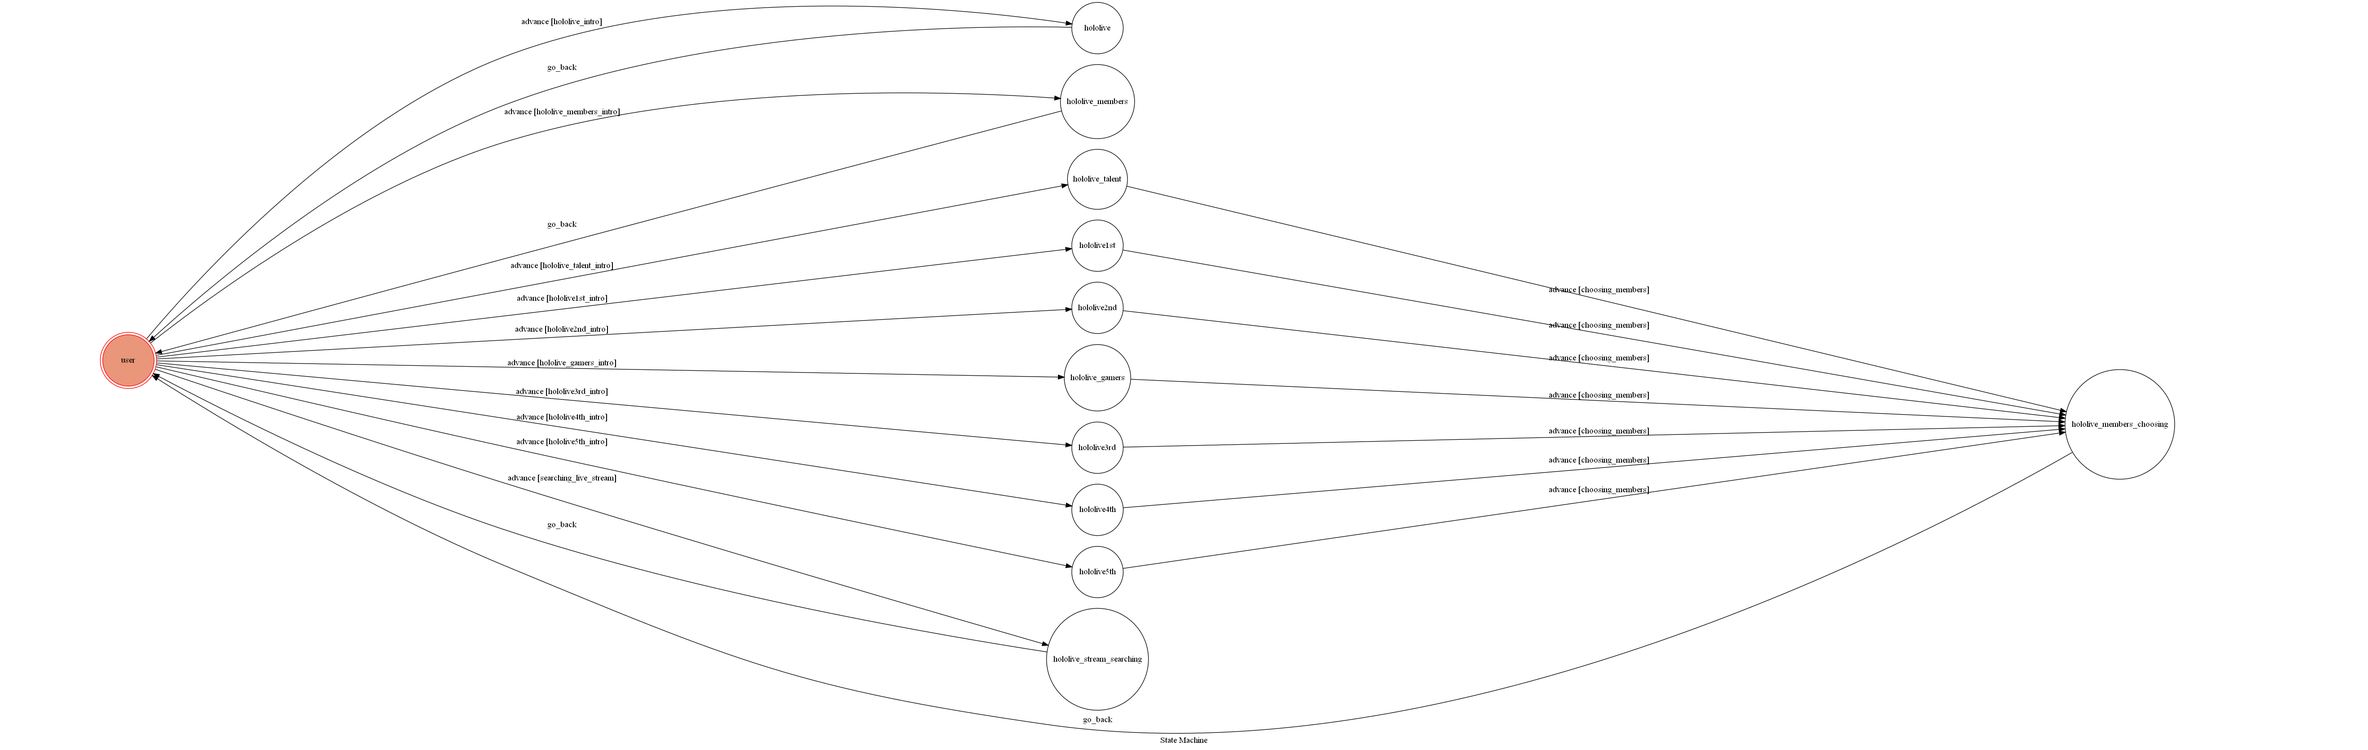
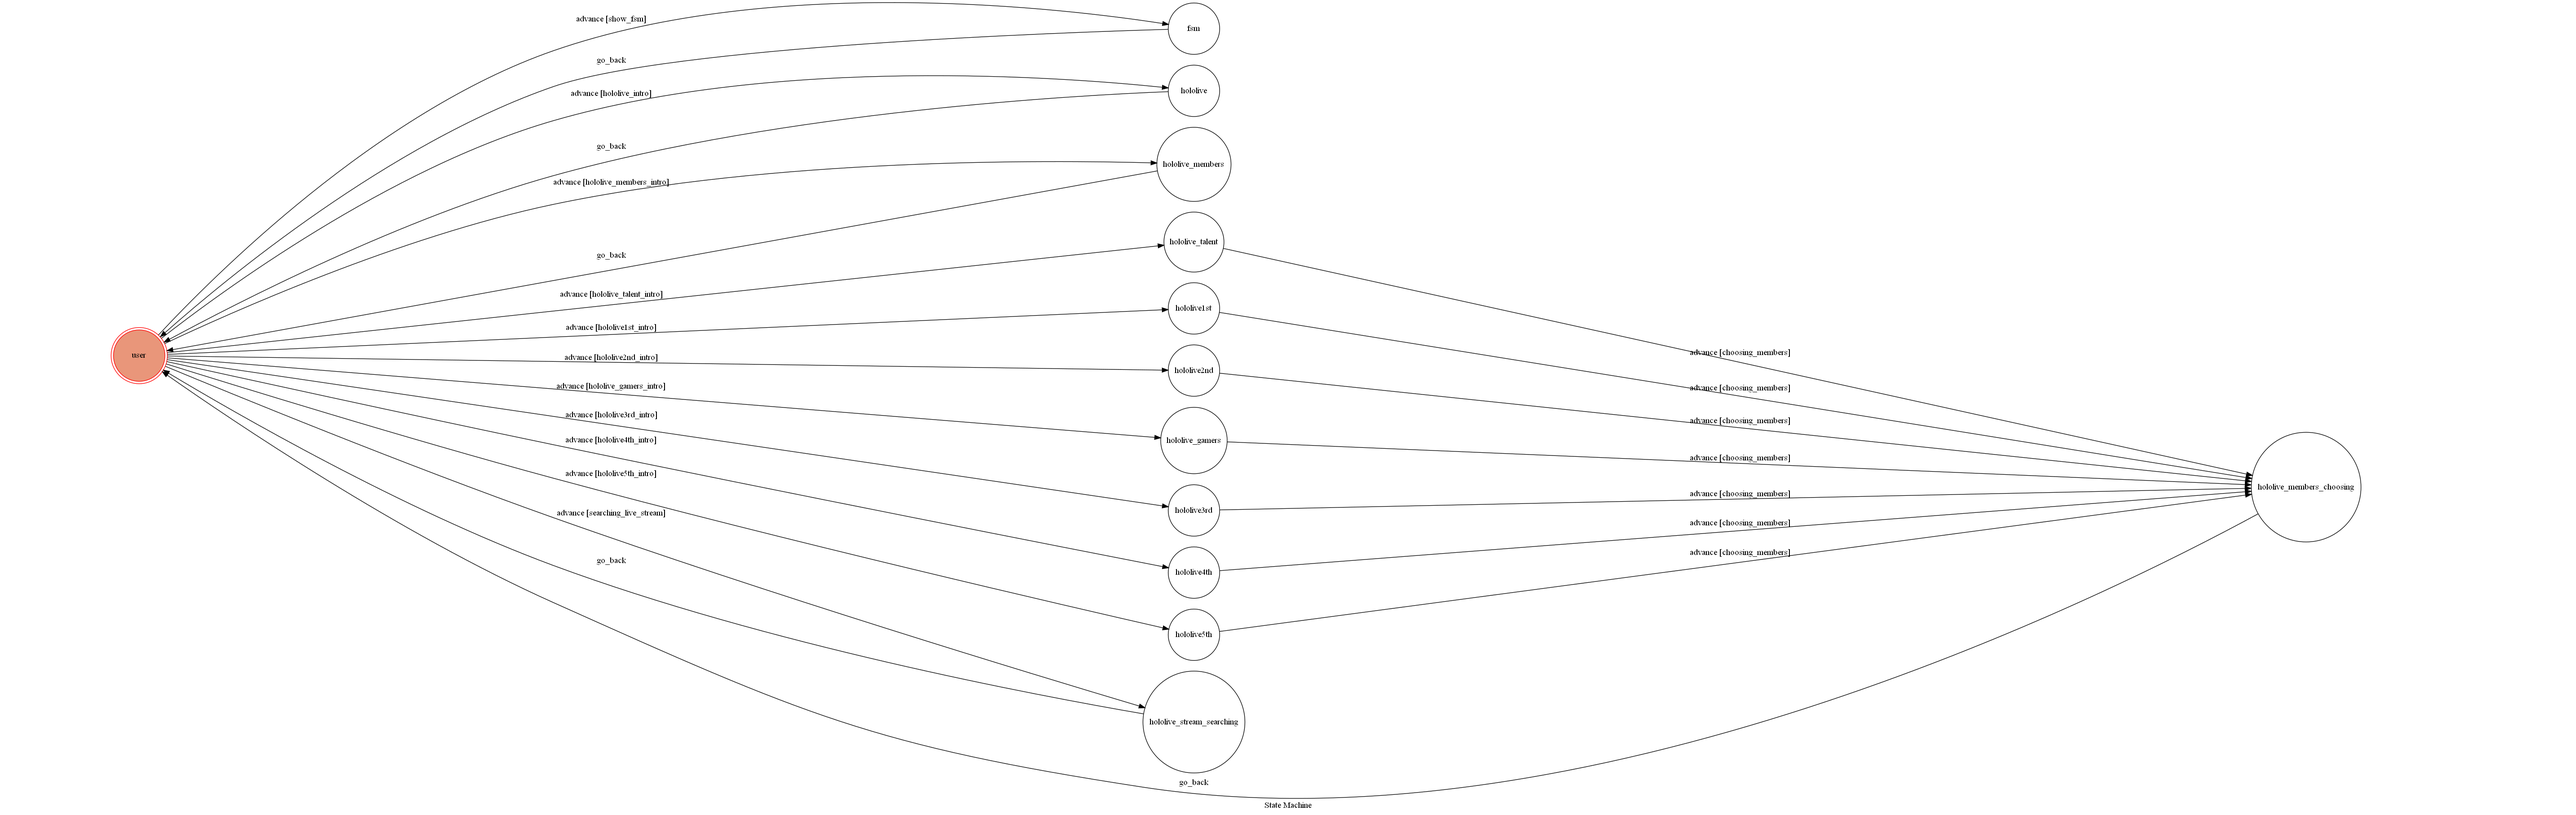
new fsm state

diff --git a/app.py b/app.py
@@ -9,13 +9,19 @@ from linebot.exceptions import InvalidSignatureError
 from linebot.models import MessageEvent, TextMessage, TextSendMessage
 
 from fsm import TocMachine
-from utils import send_text_message
+from utils import send_text_message, send_image_url
 
 load_dotenv()
 
 machine = TocMachine(
-    states=["user", "hololive", "hololive_members", "hololive_talent", "hololive1st", "hololive2nd", "hololive_gamers","hololive3rd", "hololive4th", "hololive5th", "hololive_members_choosing", "hololive_stream_searching"],
+    states=["user", "fsm", "hololive", "hololive_members", "hololive_talent", "hololive1st", "hololive2nd", "hololive_gamers","hololive3rd", "hololive4th", "hololive5th", "hololive_members_choosing", "hololive_stream_searching"],
     transitions=[
+        {
+            "trigger": "advance",
+            "source": "user",
+            "dest": "fsm",
+            "conditions": "show_fsm",
+        },
         {
             "trigger": "advance",
             "source": "user",
@@ -84,7 +90,7 @@ machine = TocMachine(
         },
         {
             "trigger": "go_back", 
-            "source": ["hololive", "hololive_members",  "hololive_members_choosing", "hololive_stream_searching"], 
+            "source": ["fsm", "hololive", "hololive_members",  "hololive_members_choosing", "hololive_stream_searching"], 
             "dest": "user"
         },
     ],

diff --git a/fsm.py b/fsm.py
@@ -9,6 +9,10 @@ class TocMachine(GraphMachine):
     def __init__(self, **machine_configs):
         self.machine = GraphMachine(model=self, **machine_configs)
 
+    def show_fsm(self, event):
+        text = event.message.text
+        return text == "Fsm"
+
     def hololive_intro(self, event):
         text = event.message.text
         return text == "Hololive"
@@ -52,6 +56,15 @@ class TocMachine(GraphMachine):
     def searching_live_stream(self, event):
         text = event.message.text
         return text[-4:] == "live"
+
+    def on_enter_fsm(self, event):
+        print("I'm entering fsm")
+        reply_token = event.reply_token
+        send_image_url(reply_token, "https://i.ibb.co/4gYxkjW/fsm.png")
+        self.go_back(event)
+    
+    def on_exit_fsm(self, event):
+        print("Leaving fsm")
 
     def on_enter_hololive(self, event):
         print("I'm entering hololive_intro")
